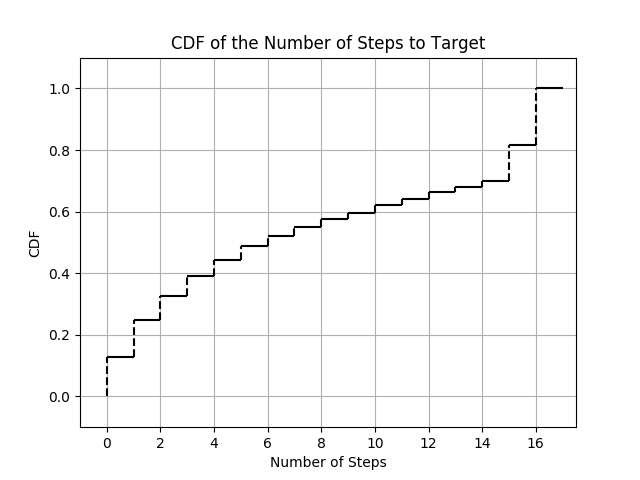
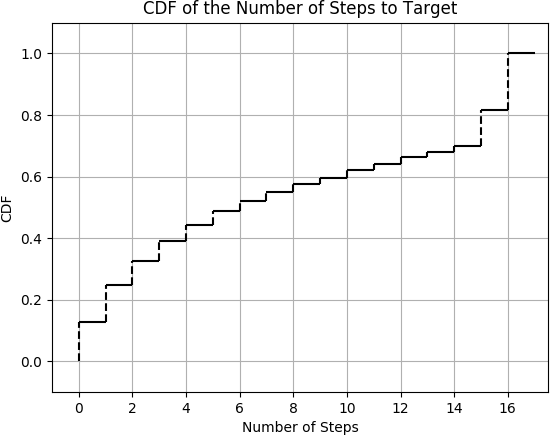
some tidy up of sec 5 and 6

diff --git a/review_edition/reviewed.tex b/review_edition/reviewed.tex
@@ -282,7 +282,7 @@ Obviously, this visual interface is only used for debugging and experimental eva
 
 \section{\uppercase{Experiments}}\label{sec:experiments}
 
-\noindent To test the effectiveness of our MDP and its policies, we designed a set of experiments that determined how effective the system is at directing a participant to point the device's camera towards a target object.
+\noindent To evaluate our system, we designed a set of experiments that determined how effective the MDP and its policies are at guiding the user in an object search task with the smartphone's camera.
 % This section discusses the experiments and their results. 
 
 \subsection{Experiment Design}
@@ -307,7 +307,7 @@ The participants were left to repeat this process until we recorded 10 searches 
 
 \begin{table}
   \centering
-  \caption{A table containing the results for the TAR, number of steps and time to target means and standard deviations for each participant. }\label{tab:results-full}
+  \caption{Results for the TAR, number of steps and time to target means and standard deviations for each participant. }\label{tab:results-full}
   \begin{tabular}{cccc}
     \toprule
     Participant & TAR [\%] & Num. Steps & Time [s] \\ \midrule
@@ -327,7 +327,7 @@ The participants were left to repeat this process until we recorded 10 searches 
   \end{tabular}                    
 \end{table}                        
                                    
-\begin{table}                      
+\begin{table}[b]                      
   \centering                       
   \caption{The means and standard deviations for the entire participant population for the experiments and simulations.}\label{tab:results-summary}
   \begin{tabular}{ccc}
@@ -345,10 +345,10 @@ The participants were left to repeat this process until we recorded 10 searches 
 
 \noindent The TAR is a measure of how successful the system was at directing a participant to the target object within the 15-step limit we set and is simply calculated as a proportion of the number completed searches vs.\ the total number of searches. Please note, however, that this plot is dependant on the step-limit we selected and should not be taken as an absolute measure of performance, but is rather presented to provide context to the other results we present. Figure~\ref{fig:tar-steps} shows the TAR as a function of the step-limit and it shows that there is a gradual increase in the TAR as the step limit increases, but tapers off as the step-limit increases.
 
-\begin{figure}
+\begin{figure}[b]
   \centering
-  \includegraphics[width=0.5\textwidth]{../figures/cdf_tar_limit.png}
-  \caption{The distribution of the TAR as a function of the step limit for a search. The `x' indicates the cases that exceeded the 15-step limit. }\label{fig:tar-steps}
+  \includegraphics[height=5.9cm]{../figures/cdf_tar_limit.png}
+  \caption{TAR as a function of the step limit for a search. The `x' indicates the cases that exceeded the 15-step limit. }\label{fig:tar-steps}
 \end{figure}
 
 %\begin{figure}
@@ -363,7 +363,7 @@ Figure~\ref{fig:tar-objects} shows the TAR for each object in $\mathbf{O}$. Ther
 
 \begin{figure}
   \centering
-  \includegraphics[width=0.45\textwidth]{../figures/tar_objects.png}
+  \includegraphics[width=\columnwidth]{../figures/tar_objects.png}
   \caption{The TAR for each of the objects within $\mathbf{O}$. }\label{fig:tar-objects}
 \end{figure}
 
@@ -373,9 +373,9 @@ Failure cases were typically caused by the system entering a no-recovery state w
 
 \noindent The number of steps to the target indicates the number of waypoints the system generated for the participant during the guidance process and is a major indication of system performance, where less waypoints means faster target acquisition and better performance. Figure~\ref{fig:nsteps-participants} shows the cumulative distribution of the number of steps to the target for all the participants. 
 
-\begin{figure}
+\begin{figure}[b]
   \centering
-  \includegraphics[width=0.5\textwidth]{../figures/cdf_total_steps.png}
+  \includegraphics[height=5.9cm]{../figures/cdf_total_steps.png}
   \caption{The cumulative distribution of the participants' number of steps taken to find a target object. }\label{fig:nsteps-participants}
 \end{figure}
 
@@ -397,11 +397,11 @@ The number of waypoints each participant required is fairly evenly spread across
 
 \begin{figure}
   \centering
-  \includegraphics[width=0.5\textwidth]{../figures/cdf_total_time.png}
+  \includegraphics[width=\columnwidth]{../figures/cdf_total_time.png}
   \caption{The cumulative distribution of the participants' time taken to find a target object. }\label{fig:time-participants}
 \end{figure}
 
-In comparison to the VizWiz system~\cite{bigham2010vizwiz} (mean 92s, standard deviation 37.7s), our results look very reasonable. However, these results may greatly change when we test the system with participants with vision impairments.
+In comparison to the VizWiz system~\cite{bigham2010vizwiz} (mean 92s, standard deviation 37.7s), our results look very reasonable, although there might be significant variations in case of participants with vision impairments.
 
 \section{\uppercase{Conclusions}}\label{sec:conclusion}
 
